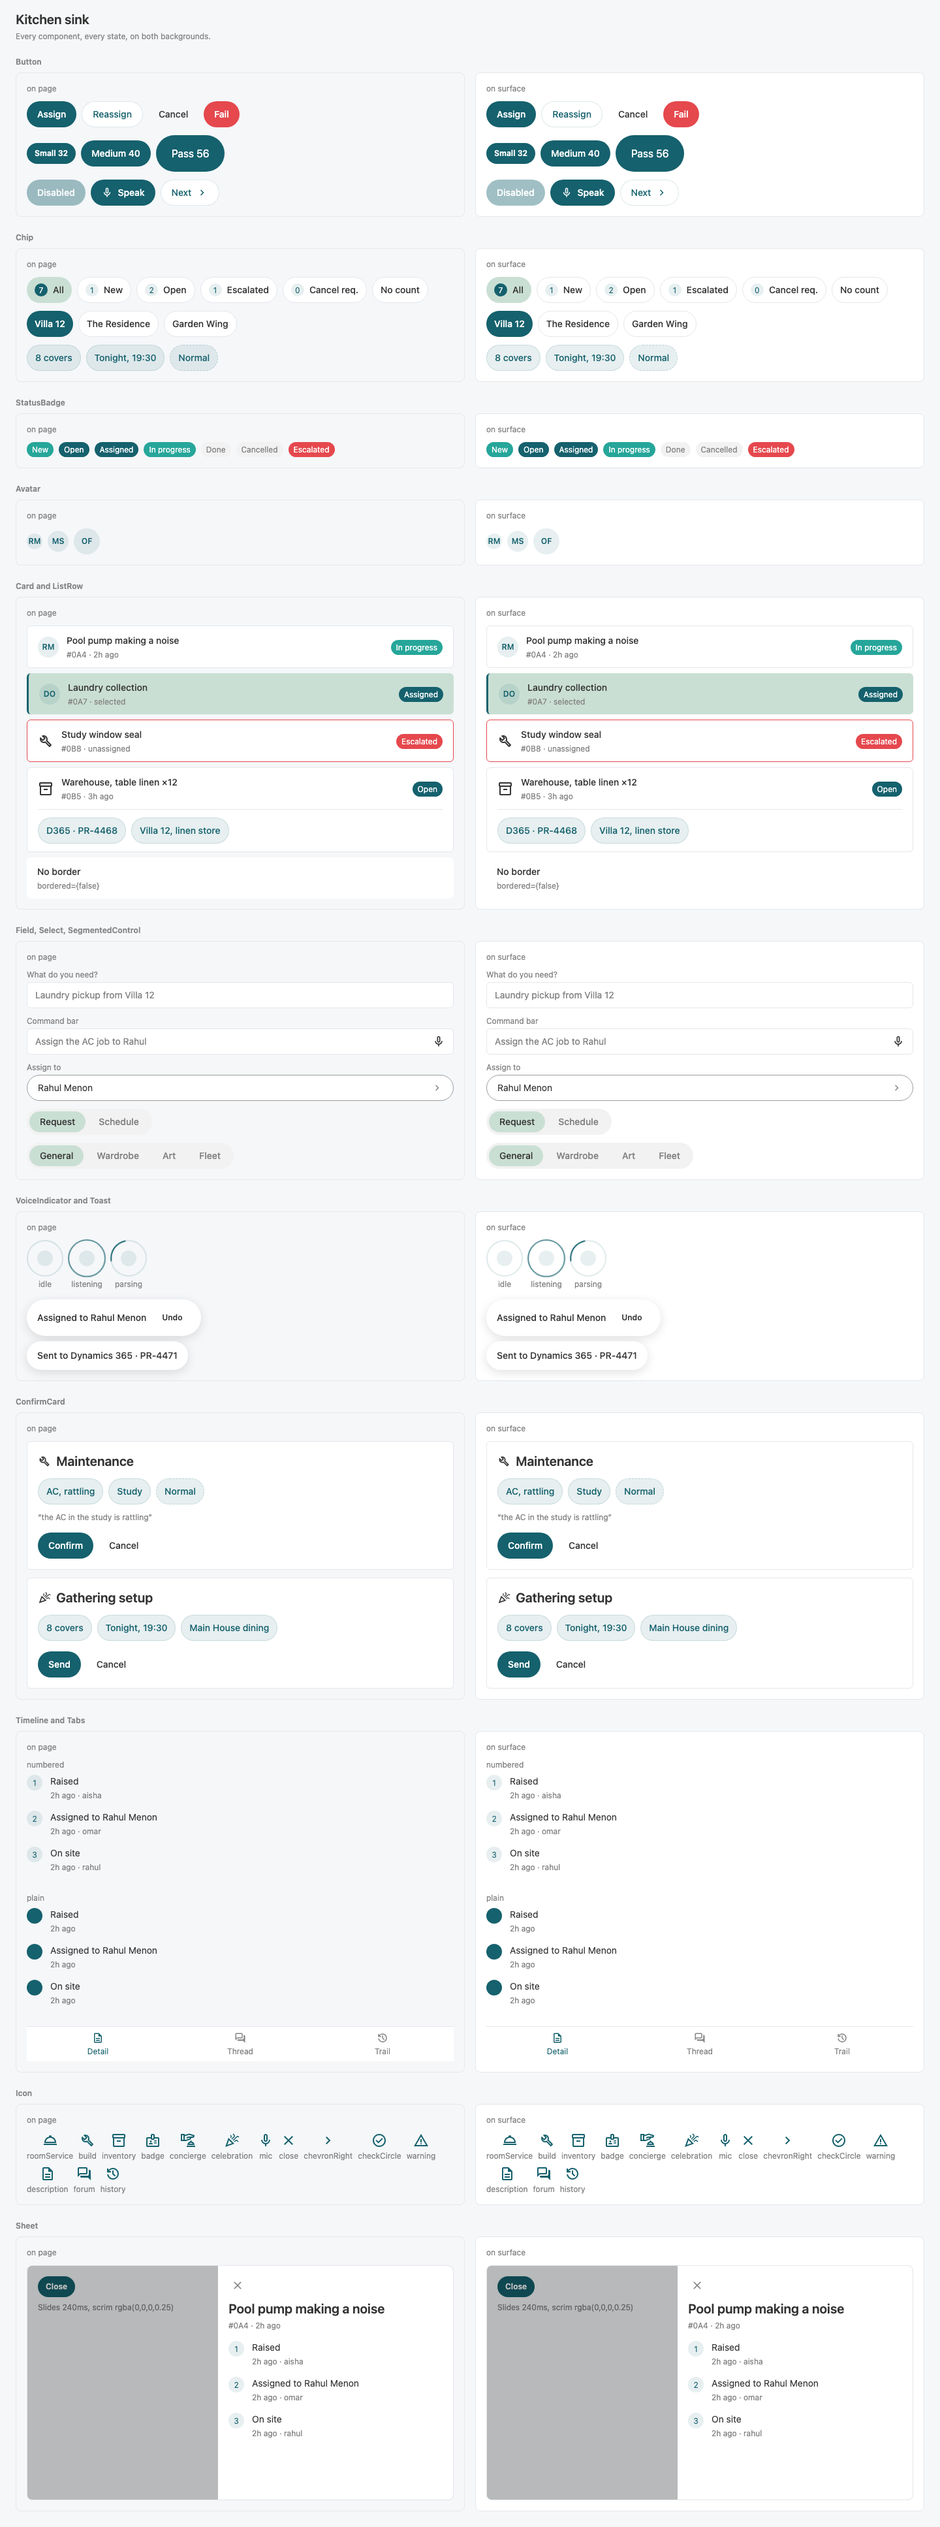
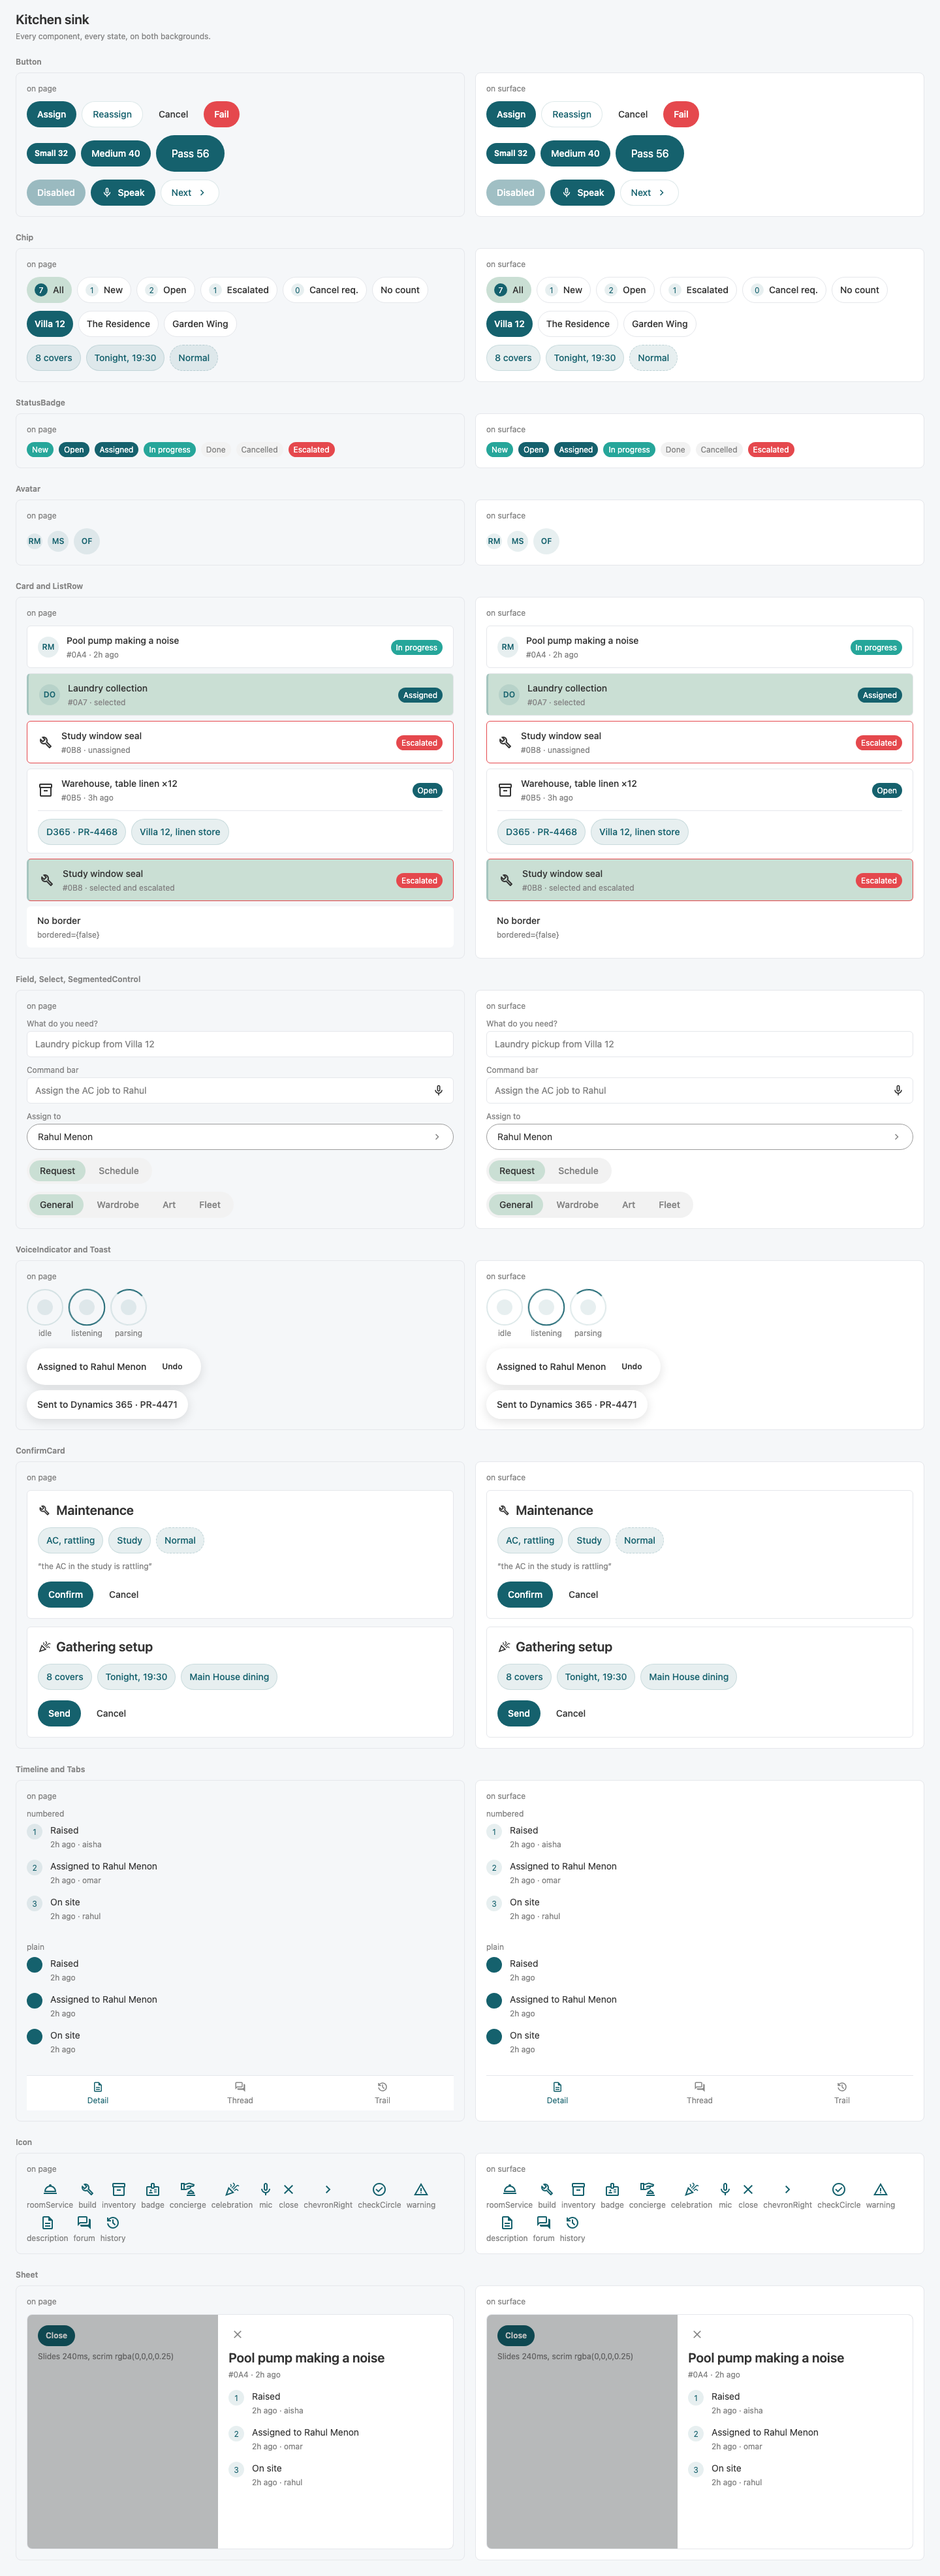
fix: selected and escalated are independent Card states
Selecting an escalated request was replacing the red border with the
selected fill, hiding the one thing about that card that matters. The
two states now compose: selected sets the fill and left edge, escalated
sets the border, and a card can carry both. Kitchen sink covers the
combination.

diff --git a/src/ui/Card.tsx b/src/ui/Card.tsx
@@ -10,6 +10,10 @@ export type CardProps = {
   'data-id': string;
 };
 
+// selected and escalated are independent. Selected changes the fill and adds
+// the left edge; escalated changes the border. A selected escalated request
+// shows both, because losing the escalation styling on selection hides the one
+// thing about that card that matters.
 export function Card({
   selected = false,
   escalated = false,
@@ -19,11 +23,17 @@ export function Card({
   className = '',
   ...rest
 }: CardProps) {
-  const look = selected
-    ? 'bg-chipSelected border-l-edge border-l-primaryBorderStrong'
-    : escalated
-      ? 'bg-surface border border-statusEscalated'
-      : `bg-surface ${bordered ? 'border border-border' : ''}`;
+  const look = [
+    selected ? 'bg-chipSelected' : 'bg-surface',
+    escalated
+      ? 'border border-statusEscalated'
+      : bordered
+        ? 'border border-border'
+        : '',
+    selected ? 'border-l-edge border-l-primaryBorderStrong' : '',
+  ]
+    .filter(Boolean)
+    .join(' ');
 
   return (
     <div

diff --git a/src/KitchenSink.tsx b/src/KitchenSink.tsx
@@ -190,6 +190,15 @@ export function KitchenSink() {
               }
             />
           </Card>
+          <Card data-id="KS/card-selected-escalated" selected escalated>
+            <ListRow
+              data-id="KS/row-selected-escalated"
+              leading={<Icon name="build" size={24} />}
+              title={escalated.title}
+              subtitle={`${escalated.ref} · selected and escalated`}
+              trailing={<StatusBadge status="escalated" />}
+            />
+          </Card>
           <Card data-id="KS/card-borderless" bordered={false}>
             <ListRow data-id="KS/row-borderless" title="No border" subtitle="bordered={false}" />
           </Card>
